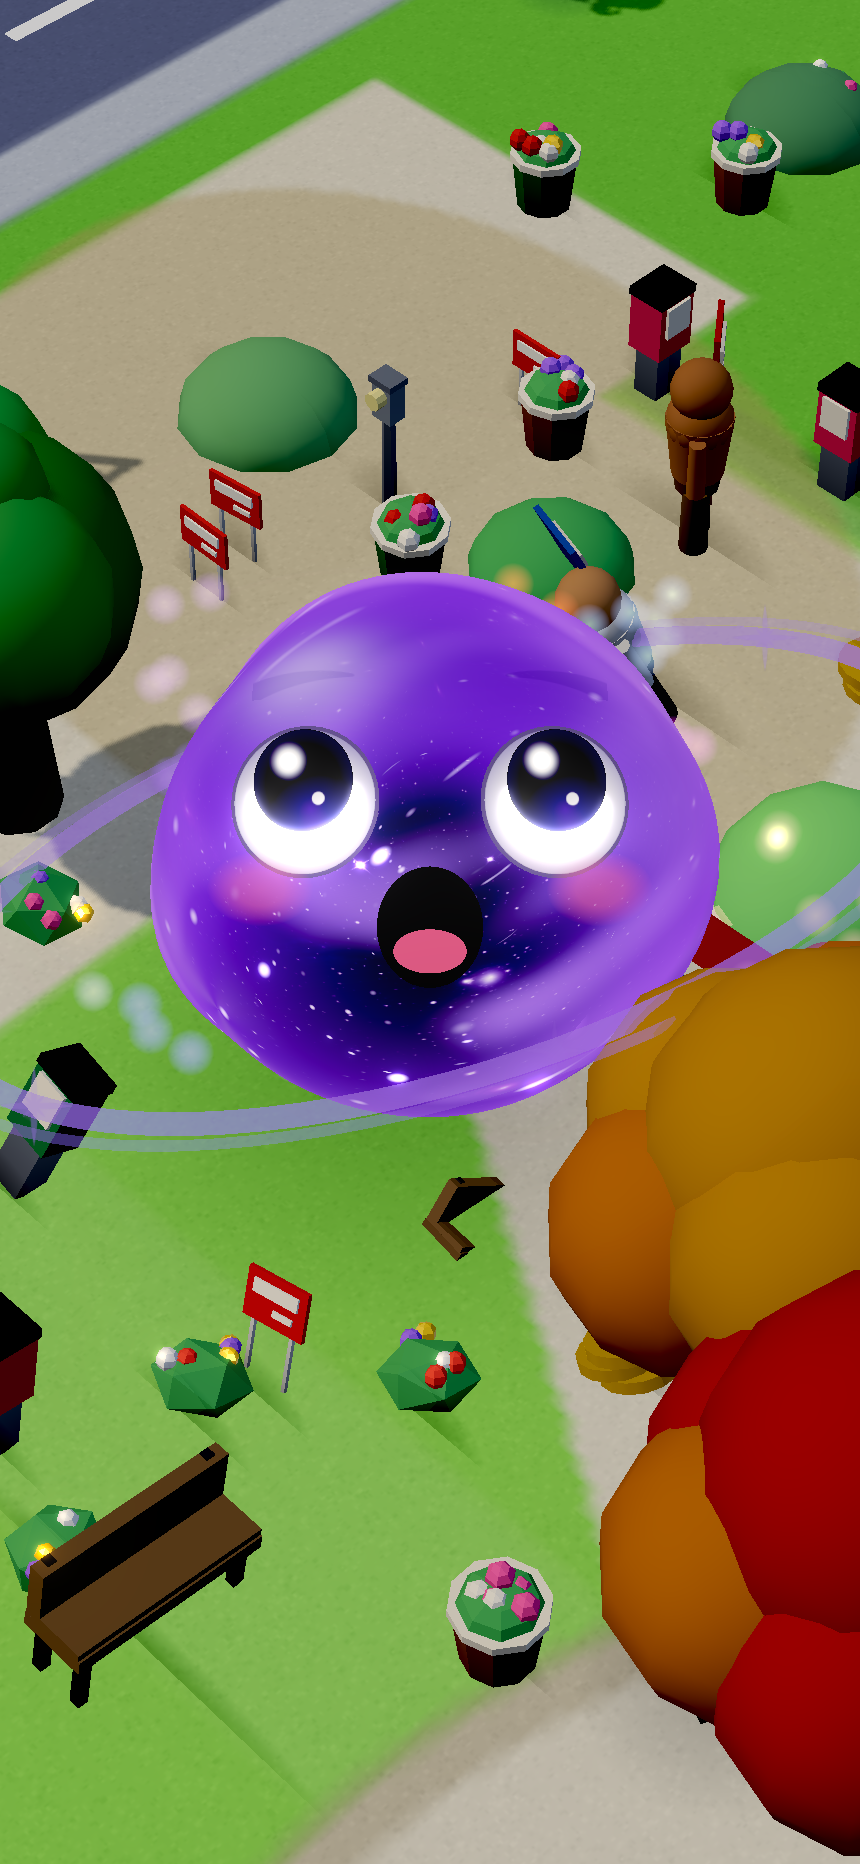
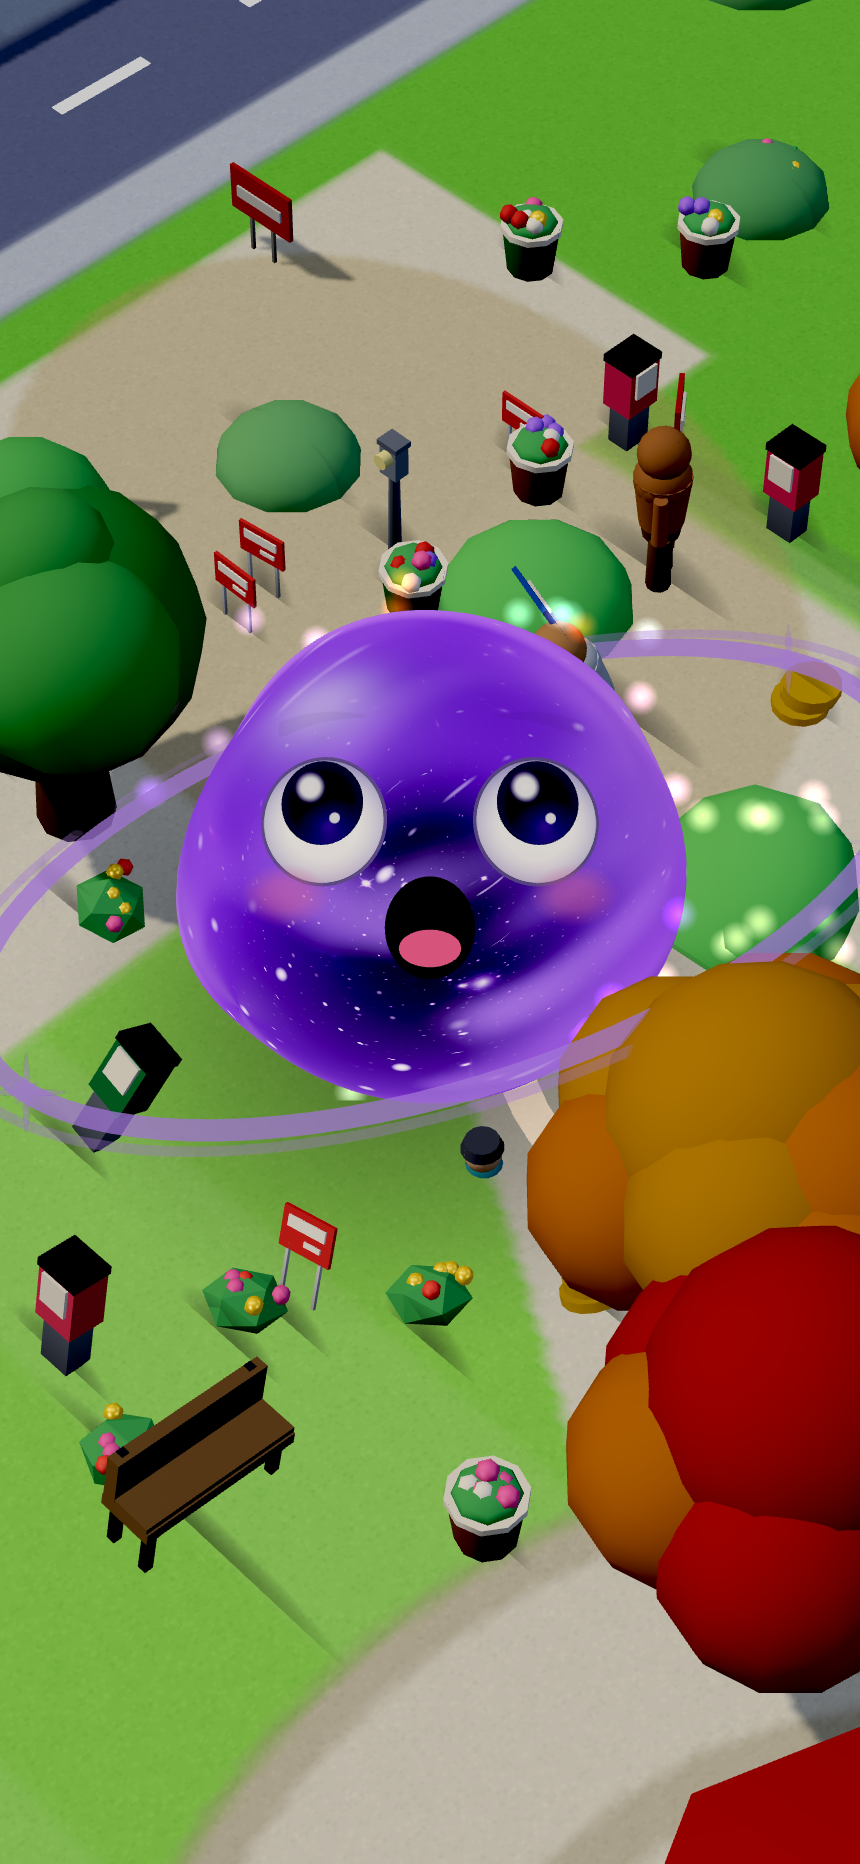
Pirate Bay and Lantern Night get the material pass Maple got, and the boot seams get the guard they turned out to need
THE MATERIAL PASS, measured with qa/glossgap.mjs before registering anything:
Pirate Bay was 72% dead matte and the mass was not ship brass — it was wood,
sixteen shades of frond green, and the resort's painted plaster. Lantern Night
was 66% matte and the mass was the two hedge/bamboo greens (22% of the whole
market) plus shadowed timber. Registered at the values the Maple canopy argued
for (radiance is 1 + 5g, metalness goes with g squared, so a low sheen picks up
sky and returns almost none of the colour): fronds and hedges 0.12-0.14, barks
0.06, crate wood 0.10, painted plaster 0.18, barrel iron 0.45.

Deliberately NOT registered: PAPER (paper is the one material that really is
matte), the lit lantern hexes (they ride PROP_GLOW_MAT, which is unlit and
never reads aGloss — an entry would be a no-op where it matters and a wax where
it does not), and every AO-darkened vertex shade. bakeContactAO darkens colours
AFTER aGloss is stamped, so dark variants inherit their source part's gloss,
and an entry keyed on the darkened hex names a colour part() never sees. One
cross-world reuse accepted with eyes open: the crate brown doubles as a work-
pant in Maple's DENIM list, and 0.10 on trousers is invisible.

Coverage, before -> after (qa/glosscov.mjs):
  pirate    28.2% -> 86.7% glossy   (strong unchanged at 16.6%)
  lantern   33.6% -> 74.1%          (strong unchanged at 6.8%)
  maple     76.1% -> 78.6%          (shared fronds)
[…]

diff --git a/artifacts/3d-game/src/prototype3d.ts b/artifacts/3d-game/src/prototype3d.ts
@@ -1100,7 +1100,33 @@ function placeStickersOnce(): void {
 // __edibles + __insideIsland3 + __validateWorld power the placement auditor:
 // a headless sweep measures every edible's REAL world-space bounding box
 // against the road/sidewalk bands and the coastline.
-const _dbg = window as unknown as {
+// ── THE DEBUG API ATTACHES ATOMICALLY, AT THE END OF BOOT ──────────────────
+// _dbg used to BE window, so every hook landed on the page the moment its line
+// ran. That was harmless while the module evaluated in one synchronous block —
+// nothing could call in half-way. The boot now yields at its seams (see
+// bootStage), and the first probe to poll during a gap found the hole:
+// __matchState exists early but reads `rivals`, which is declared five hundred
+// lines later, and the call died on the temporal dead zone. So the hooks stage
+// on a local object and land on window in one Object.assign at the very end of
+// the module, after everything they close over is initialised. A probe that
+// waits for __voidState — all of them do — can no longer observe a half-built
+// API, because __voidState and the rest arrive together or not at all.
+//
+// A plain object with one Object.assign at the end is NOT enough: two hooks
+// (__shopTab, __grantHats) are assigned lazily at RUNTIME, inside the shop's
+// init, long after boot — a snapshot copy would strand them on the local
+// object and silently break every probe that calls them. So _dbg is a proxy
+// that buffers writes until the module is fully evaluated and forwards them
+// to window from then on.
+const _dbgStore: Record<string, unknown> = {};
+let _dbgLive = false;
+const _dbg = new Proxy(_dbgStore, {
+  set(t, k, v) {
+    t[k as string] = v;
+    if (_dbgLive) (window as unknown as Record<string, unknown>)[k as string] = v;
+    return true;
+  },
+}) as unknown as {
   __scene: THREE.Scene; __cam: THREE.Camera; __THREE: typeof THREE; __renderer: THREE.WebGLRenderer;
   __edibles: Edible[]; __insideIsland3: (x: number, z: number) => boolean; __validateWorld: () => void;
   __life: Life; __moverStats: (gate: number) => { near: number; total: number }; __crowdGate: number;
@@ -7192,4 +7218,7 @@ else {
   camera.position.copy(camOffset).multiplyScalar(camDist).add(new THREE.Vector3(voidState.x, 0, voidState.z));
   camera.lookAt(voidState.x, voidling.radius * 0.5, voidState.z);
 }
+// the debug API goes live only now — see the note on _dbg's declaration
+_dbgLive = true;
+Object.assign(window, _dbgStore);
 animate();

diff --git a/artifacts/3d-game/src/proto3d/island.ts b/artifacts/3d-game/src/proto3d/island.ts
@@ -3190,6 +3190,23 @@ const FADE_BODY = `
 registerGloss([
   [PROPS.towerGlass, 0.78], [PROPS.carGlass, 0.70],
   [0xc8cdd8, 0.68], [0x3c4454, 0.45],
+  // ── PIRATE BAY, measured with qa/glossgap.mjs: 72% of the island was dead
+  // matte, and the mass was not the ship brass — it was wood, fronds and the
+  // resort's painted plaster. Values follow the Maple canopy argument: the
+  // radiance term is 1 + 5g while metalness goes with g squared, so a low
+  // sheen picks up sky and gives back almost none of the colour.
+  //   frond greens 0.14 (16 shades on the palms and hedges, same as Maple's
+  //   canopy), palm bark 0.06, crate/coconut wood 0.10 (also a brown work-pant
+  //   in Maple's DENIM list — a 0.10 wax on trousers is invisible), the barrel
+  //   iron rings 0.45, and the resort hotel's cream 0.18 like Maple's paint.
+  // NOT here: AO-darkened vertex shades. bakeContactAO darkens colours after
+  // aGloss is stamped, so a dark variant inherits its source part's gloss and
+  // an entry for the darkened hex would key on a colour part() never sees.
+  [0x8a6a4a, 0.10], [0xb08a5a, 0.06], [0xfdf3de, 0.18],
+  [0x2e2a34, 0.45],
+  [0x4faa5a, 0.14], [0x54b060, 0.14], [0x3f8f4c, 0.14], [0x459a52, 0.14],
+  [0x5fbc68, 0.14], [0x58b463, 0.14], [0x67b25c, 0.14], [0x7ec96e, 0.14],
+  [0x5dbe63, 0.14], [0x6cc86e, 0.14],
 ], 'island');
 /** Override the palette lookup for one part — for a colour that is metal HERE
  *  and cushion fabric two props over. `p.push(glossy(part(...), 0.7))`. */

diff --git a/artifacts/3d-game/src/proto3d/nightmarket.ts b/artifacts/3d-game/src/proto3d/nightmarket.ts
@@ -92,6 +92,13 @@ registerGloss([
   [TILE, 0.46], [TILE_D, 0.40], [WATER, 0.82], [CHAR, 0.50],
   [STONE, 0.24], [STONE_D, 0.20],
   [TIMBER, 0.16], [CEDAR, 0.16],   // oiled boards, wet with the night air
+  // measured with qa/glossgap.mjs: the two hedge/bamboo greens are 22% of the
+  // whole market and were dead matte — under lanterns a leaf sheen is what
+  // catches the light. Shadowed timber joins the oiled boards it belongs to.
+  // PAPER stays matte on purpose (paper is the one material that really is),
+  // and the lit lantern hexes are skipped: they ride PROP_GLOW_MAT, which is
+  // unlit and never reads aGloss.
+  [GREEN_L, 0.12], [GREEN, 0.12], [TIMBER_D, 0.16],
 ], 'nightmarket');
 
 const rnd = (a: number, b: number) => a + Math.random() * (b - a);

diff --git a/artifacts/3d-game/src/proto3d/luxe.ts b/artifacts/3d-game/src/proto3d/luxe.ts
@@ -53,6 +53,9 @@ const ICE = 0xd8f0f6;
 registerGloss([
   [GOLD, 0.62], [GOLD_B, 0.78], [GLASS, 0.80], [AQUA, 0.62], [TURQ, 0.58],
   [MARBLE, 0.34], [SLATE, 0.20], [ICE, 0.50],
+  // the banding cream is 6.2% of Pirate Bay's vertices (qa/glossgap.mjs) and
+  // was dead matte — painted plaster, same 0.18 as Maple's house paint
+  [CREAM, 0.18],
 ], 'luxe');
 
 const rnd = (a: number, b: number) => a + Math.random() * (b - a);
